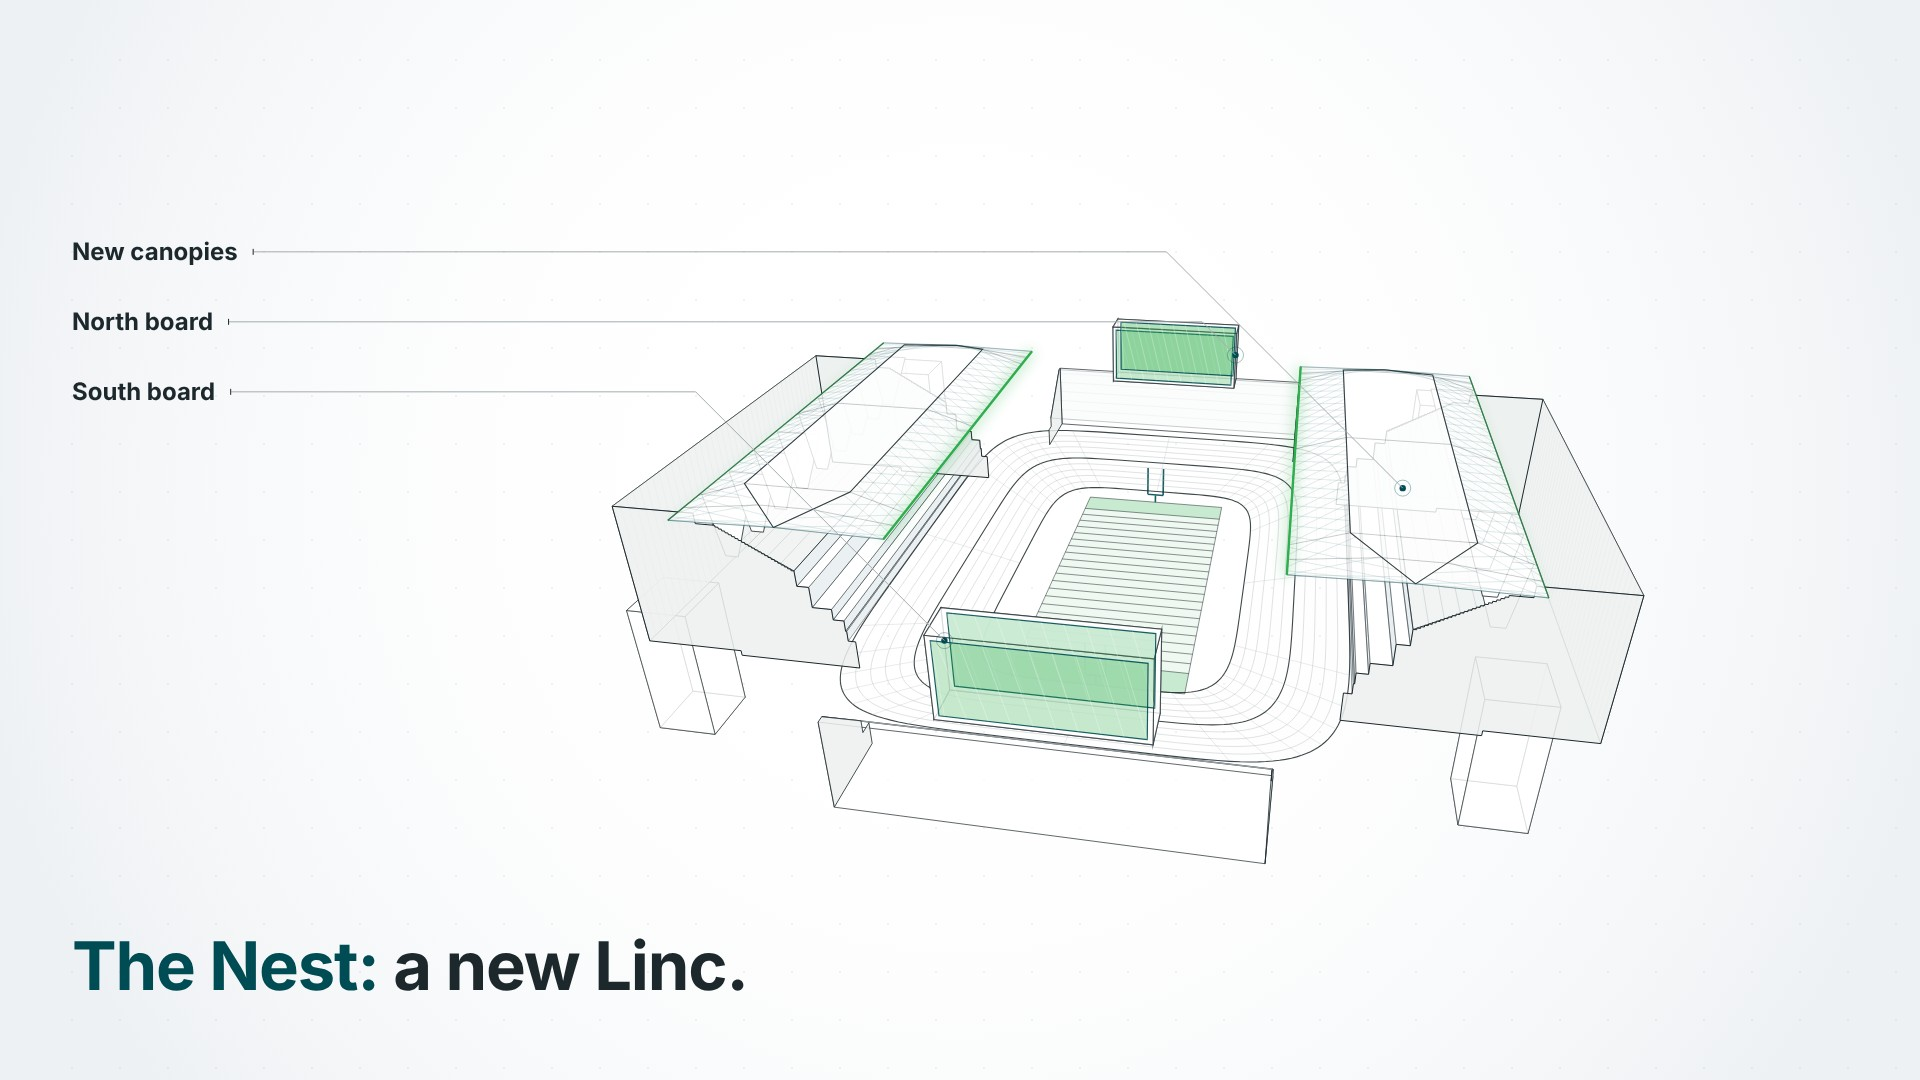
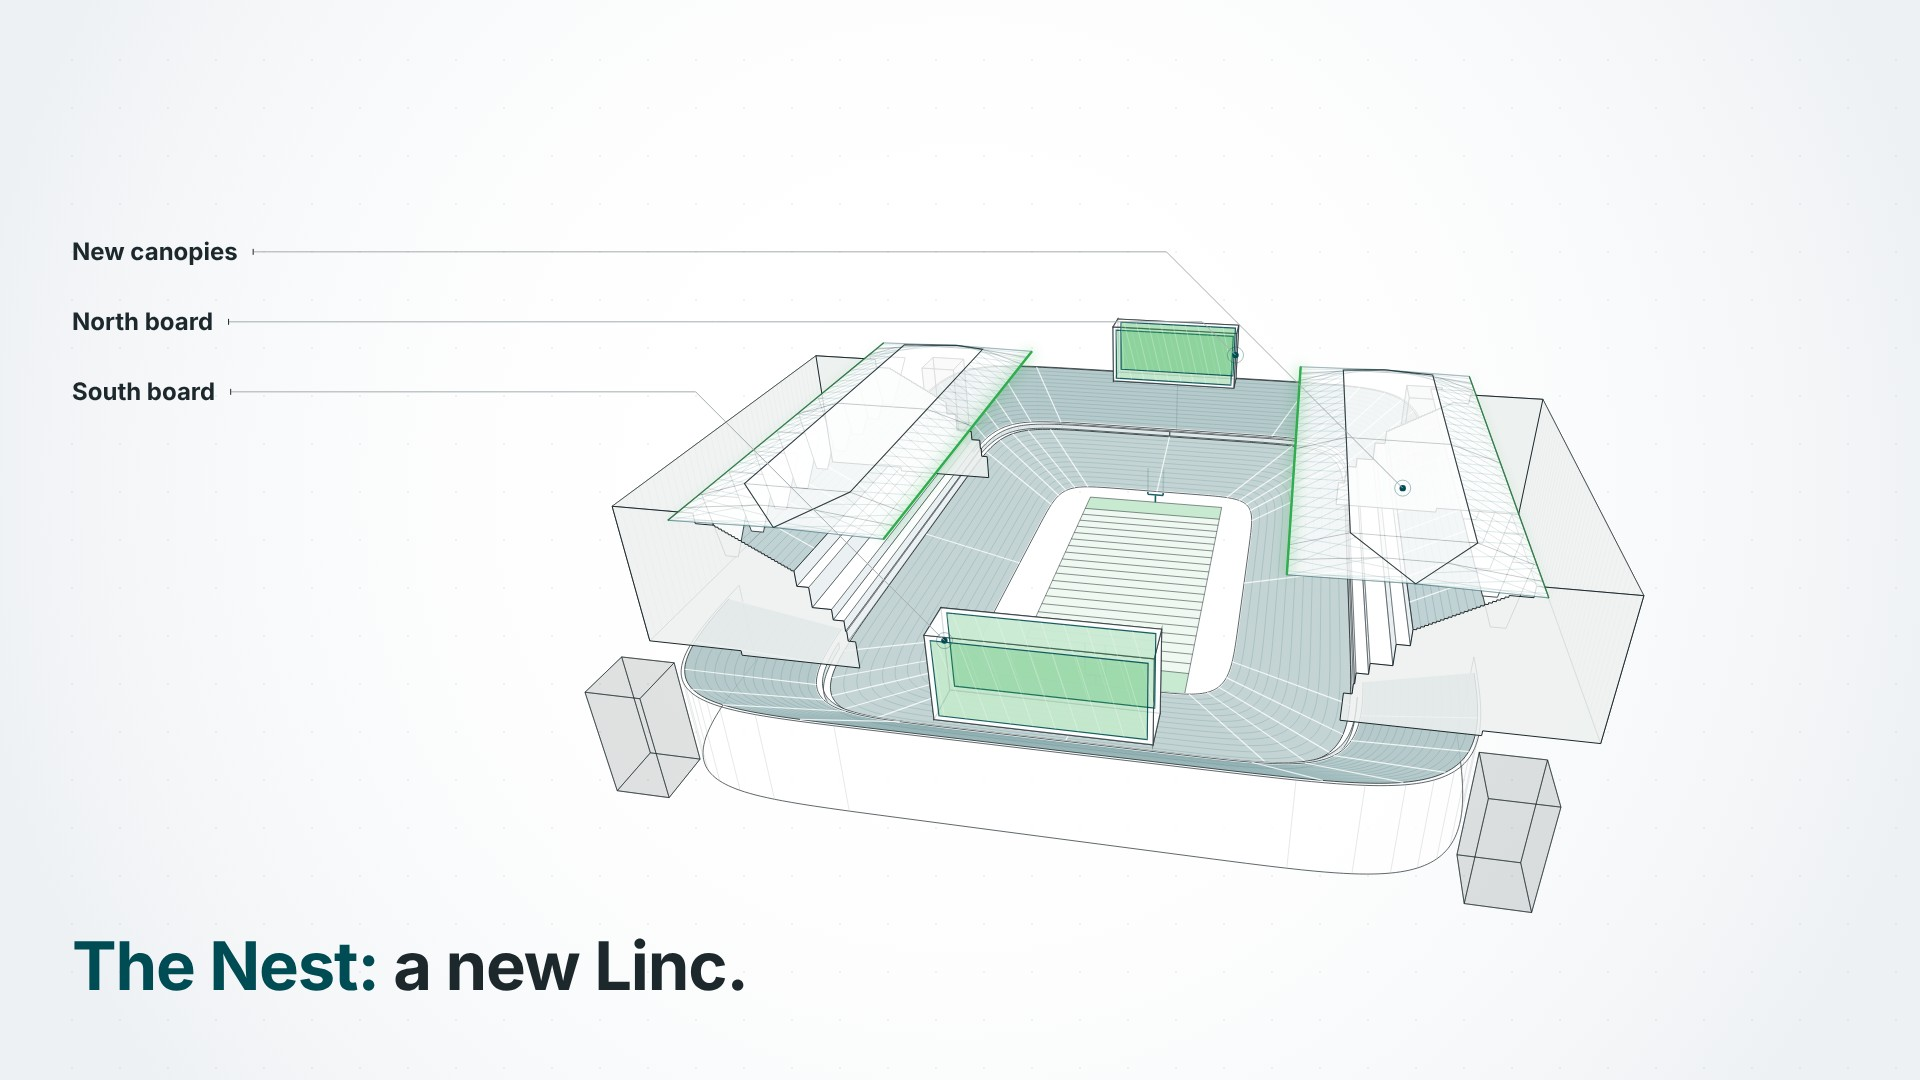
The Nest 16:9: bowl closer to the reference images
Existing Linc: rectangular lower bowl, suite band, end upper decks with
open corners, rim truss on the wing canopies, corner ramp towers.
The Nest: lowered lower bowl and a second tier wrapping the corners and
both ends. Seating drawn as tinted tiers with rows and aisles.
Applies to the 16:9 mode only; the 4:5 cut is unchanged.

Claude-Session: https://claude.ai/code/session_01XFWMdGfzEwnLKPwVW5U2PS

diff --git a/the-nest/index.html b/the-nest/index.html
@@ -593,7 +593,8 @@ function stand3(c, P, s, a, o) {
   poly3(c, P, [[x0, ROOF, Z(345)], [x1, ROOF, Z(345)], [x1, ROOF, Z(FACADE)], [x0, ROOF, Z(FACADE)]], 'light', .8 * a, 'graphite', .6 * a);
   // upper bowl rake
   poly3(c, P, [[x0, UBy(0), Z(UBr(0))], [x1, UBy(0), Z(UBr(0))], [x1, UB_TOP, Z(UB_END)], [x0, UB_TOP, Z(UB_END)]], 'light', .75 * a, 'graphite', .8 * a);
-  for (let j = 4; j < 25; j += 4) L(UBr(j), UBy(j), 'mid', .5, .7);
+  if (WIDE) { poly3(c, P, [[x0, UBy(0), Z(UBr(0))], [x1, UBy(0), Z(UBr(0))], [x1, UB_TOP, Z(UB_END)], [x0, UB_TOP, Z(UB_END)]], 'blue', .2 * a, 'blue', 0); for (let j = 2; j < 25; j += 2) L(UBr(j), UBy(j), 'blue', .25, .6); c.beginPath(); for (let x = Math.ceil(x0 / 40) * 40; x <= x1; x += 40) seg3(c, P, [x, UBy(0), Z(UBr(0))], [x, UB_TOP, Z(UB_END)]); c.strokeStyle = rgba('white', .8 * a); c.lineWidth = 1.2; c.stroke(); }
+  else for (let j = 4; j < 25; j += 4) L(UBr(j), UBy(j), 'mid', .5, .7);
   // stepped front: club and suite levels behind glass
   for (let i = 0; i < FRONT.length - 1; i++) { const [ra, ya] = FRONT[i], [rb, yb] = FRONT[i + 1]; poly3(c, P, [[x0, ya, Z(ra)], [x1, ya, Z(ra)], [x1, yb, Z(rb)], [x0, yb, Z(rb)]], ra === rb ? 'blue' : 'white', ra === rb ? .08 * a : .7 * a, 'graphite', .55 * a, .8); }
   // fins carrying the canopy
@@ -676,22 +677,103 @@ function newCanopy3(c, P, s, a, o) {
     c.fillStyle = rgba('graphite', on * a); c.fillRect(f[0] - 3, f[1] - 2, 6, 4);
   }
 }
+/* ---------------------------------------------------------------------
+   16:9 bowl — seating tiers drawn as tinted bands with rows, closer to
+   the reference images (existing: open corners, suite band, ramp towers;
+   The Nest: tiers wrapping the corners and both ends)
+   --------------------------------------------------------------------- */
+const N8 = 8, NB = 240, THB = [...Array(NB + 1)].map((_, i) => i / NB * TAU);
+const s8 = (A, B, th) => { const cc = Math.cos(th), s = Math.sin(th); return [A * Math.sign(cc) * Math.pow(Math.abs(cc), 2 / N8), B * Math.sign(s) * Math.pow(Math.abs(s), 2 / N8)]; };
+function tierBand(c, P, R0, R1, a, o = {}) {
+  const { xmin = -999, keep = () => true, rows = 10, tint = .16, aisles = 10 } = o;
+  const [A0, B0, y0] = R0, [A1, B1, y1] = R1, pt = (f, th) => { const q = s8(lerp(A0, A1, f), lerp(B0, B1, f), th); return [q[0], lerp(y0, y1, f), q[1]]; };
+  const ok = i => { const th = THB[i], m = pt(.5, th); return keep(m[0], m[2]) && pt(0, th)[0] >= xmin && pt(1, th)[0] >= xmin; };
+  const runs = []; let cur = null;
+  for (let i = 0; i <= NB; i++) { if (ok(i)) { if (!cur) { cur = [i, i]; runs.push(cur); } cur[1] = i; } else cur = null; }
+  if (runs.length > 1 && runs[0][0] === 0 && runs[runs.length - 1][1] === NB) { runs[0][0] = runs[runs.length - 1][0] - NB; runs.pop(); }
+  for (const [i0, i1] of runs) {
+    const idx = []; for (let i = i0; i <= i1; i++) idx.push(((i % NB) + NB) % NB);
+    const inner = idx.map(i => P(...pt(0, THB[i]))), outer = idx.map(i => P(...pt(1, THB[i])));
+    linePts(c, [...inner, ...outer.reverse()]); c.closePath(); c.fillStyle = rgba('light', .85 * a); c.fill(); c.fillStyle = rgba('blue', tint * a); c.fill();
+    for (let k = 1; k < rows; k++) { linePts(c, idx.map(i => P(...pt(k / rows, THB[i])))); c.strokeStyle = rgba('blue', .22 * a); c.lineWidth = .6; c.stroke(); }
+    linePts(c, inner); c.strokeStyle = rgba('white', a); c.lineWidth = 2; c.stroke(); c.strokeStyle = rgba('graphite', .8 * a); c.lineWidth = .9; c.stroke();
+    linePts(c, idx.map(i => P(...pt(1, THB[i])))); c.strokeStyle = rgba('graphite', .8 * a); c.lineWidth = 1; c.stroke();
+    c.beginPath(); idx.forEach((i, k) => { if (k % aisles) return; seg3(c, P, pt(0, THB[i]), pt(1, THB[i])); }); c.strokeStyle = rgba('white', .8 * a); c.lineWidth = 1.2; c.stroke();
+  }
+  return runs;
+}
+function ringWall(c, P, A, B, y0, y1, a, keep, xmin, fill = 'white', fa = .8, glass = 0) {
+  const idx = []; for (let i = 0; i <= NB; i++) { const q = s8(A, B, THB[i]); if (keep(q[0], q[1]) && q[0] >= xmin) idx.push(i); else if (idx.length && idx[idx.length - 1] !== null) idx.push(null); }
+  const runs = []; let cur = []; for (const i of idx) { if (i === null) { if (cur.length > 1) runs.push(cur); cur = []; } else cur.push(i); } if (cur.length > 1) runs.push(cur);
+  for (const run of runs) {
+    const bot = run.map(i => { const q = s8(A, B, THB[i]); return P(q[0], y0, q[1]); }), top = run.map(i => { const q = s8(A, B, THB[i]); return P(q[0], y1, q[1]); });
+    linePts(c, [...bot, ...top.slice().reverse()]); c.closePath(); c.fillStyle = rgba(fill, fa * a); c.fill(); if (glass) { c.fillStyle = rgba('blue', glass * a); c.fill(); }
+    c.strokeStyle = rgba('graphite', .7 * a); c.lineWidth = 1; c.stroke();
+    c.beginPath(); run.forEach((i, k) => { if (k % 6) return; const q = s8(A, B, THB[i]); seg3(c, P, [q[0], y0, q[1]], [q[0], y1, q[1]]); }); c.strokeStyle = rgba('mid', .4 * a); c.lineWidth = .7; c.stroke();
+  }
+}
+const isEnd = (x, z) => Math.abs(x) > 206;                     // ends + corners (outside the sideline stands)
+const isEndOnly = (x, z) => Math.abs(x) > 206 && Math.abs(z) < 150; // existing: the corners stay open
+function bowlWide(c, P, a, o) {
+  const { lower = 1, old = 0, xmin = -999, build = 1 } = o, B = k => clamp(build * 6 - k) * a;
+  const nwA = 1 - old;
+  // lower bowl, all the way round
+  const lb = B(.5);
+  if (lb > 0) tierBand(c, P, [lerp(203, 192, lower), lerp(130, 119, lower), lerp(LBy(4), LBy(0), lower)], [300, LB_END, LB_TOP], lb, { xmin, rows: 12, tint: .18 });
+  // existing: suite band around the bowl + end upper decks with open corners
+  if (old > 0 && B(1.5) > 0) {
+    const ea = B(1.5) * old;
+    ringWall(c, P, 370, 304, PLAZA, 98, ea, isEndOnly, xmin, 'white', .7);
+    ringWall(c, P, 303, 226, LB_TOP, 46, ea, isEnd, xmin, 'graphite', .12, .1);
+    tierBand(c, P, [306, 230, 48], [368, 302, 98], ea, { xmin, keep: isEndOnly, rows: 14, tint: .2 });
+  }
+  // The Nest: a second tier sweeping round the corners and across both ends
+  if (nwA > 0 && B(1.5) > 0) {
+    const ea = B(1.5) * nwA;
+    ringWall(c, P, 374, 308, PLAZA, 92, ea, isEnd, xmin, 'white', .75);
+    ringWall(c, P, 303, 226, LB_TOP, 40, ea, isEnd, xmin, 'white', .7, .12);
+    tierBand(c, P, [306, 230, 42], [372, 306, 92], ea, { xmin, keep: isEnd, rows: 14, tint: .24 });
+  }
+}
+// existing ramp towers in the corners (cylinders), new dark corner blocks
+function cornersWide(c, P, a, old, xmin) {
+  for (const e of [-1, 1]) for (const s of [-1, 1]) {
+    const cx = e * 352, cz = s * 318; if (cx + 40 < xmin) continue;
+    if (old > 0) {
+      const al = a * old, R = 34, H = 84, ring_ = y => [...Array(33)].map((_, i) => { const an = i / 32 * TAU; return P(cx + R * Math.cos(an), y, cz + R * Math.sin(an)); });
+      linePts(c, ring_(0)); c.closePath(); c.fillStyle = rgba('white', .7 * al); c.fill();
+      for (let y = 0; y <= H; y += 12) { linePts(c, ring_(y)); c.strokeStyle = rgba(y % 24 ? 'mid' : 'graphite', (y % 24 ? .45 : .7) * al); c.lineWidth = .9; c.stroke(); }
+      const sil = ring_(H); linePts(c, sil); c.closePath(); c.fillStyle = rgba('light', .9 * al); c.fill(); c.strokeStyle = rgba('graphite', .8 * al); c.stroke();
+      c.beginPath(); for (const an of [0, Math.PI]) { const p = P(cx + R * Math.cos(an + 1.57), 0, cz + R * Math.sin(an + 1.57)), q = P(cx + R * Math.cos(an + 1.57), H, cz + R * Math.sin(an + 1.57)); c.moveTo(p[0], p[1]); c.lineTo(q[0], q[1]); } c.strokeStyle = rgba('graphite', .5 * al); c.stroke();
+    }
+    if (old < 1) boxF(c, P, cx - 22, cx + 22, 0, 96, cz - 22, cz + 22, 'graphite', .07 * a * (1 - old), 'graphite', .55 * a * (1 - old));
+  }
+}
+// rim truss on the existing wing canopies
+function oldRim(c, P, s, a, lift, xmin) {
+  if (a <= 0) return;
+  const F = (x, dy) => [x, 150 + 30 * (x / LS) ** 2 + lift + dy, s * 252], x0 = Math.max(-LS, xmin);
+  c.beginPath(); for (let i = 0; i <= 40; i++) { const x = lerp(x0, LS, i / 40), p = P(...F(x, 0)), q = P(...F(x, -7)); if (i) { const pp = P(...F(lerp(x0, LS, (i - 1) / 40), i % 2 ? -7 : 0)); c.moveTo(pp[0], pp[1]); c.lineTo(i % 2 ? p[0] : q[0], i % 2 ? p[1] : q[1]); } }
+  c.strokeStyle = rgba('graphite', .6 * a); c.lineWidth = .8; c.stroke();
+  linePts(c, [...Array(41)].map((_, i) => P(...F(lerp(x0, LS, i / 40), -7)))); c.strokeStyle = rgba('white', a); c.lineWidth = 2.4; c.stroke(); c.strokeStyle = rgba('graphite', .8 * a); c.lineWidth = 1; c.stroke();
+}
 function drawNest(c, cm, t, o = {}) {
   const { a = 1, build = 1, old = 0, nw = 0, drop = 0, oldBd = 0, newBd = 0, rise = 1, glow = 0, solar = 0, lights = 0, show = 0, lower = 1, xmin = -999, beat = 0, fins = 0 } = o;
   const P = Qp(cm), B = k => clamp(build * 6 - k) * a, cut = xmin > -LS ? 1 : 0;
   field3(c, P, clamp(build * 4) * a, xmin, 4 * (1 - lower));
-  if (B(.5) > 0) lowerBowl(c, P, B(.5), lower, xmin);
+  if (WIDE) bowlWide(c, P, a, { lower, old, xmin, build });
+  else if (B(.5) > 0) lowerBowl(c, P, B(.5), lower, xmin);
   if (cut) for (const s of [-1, 1]) lbCut(c, P, s, a, xmin);
   const ends = [-1, 1].sort((p, q) => P(q * 340, 60, 0)[2] - P(p * 340, 60, 0)[2]);
-  for (const e of ends) end3(c, P, e, B(1.5), xmin);
-  if (B(2) > 0) towers3(c, P, B(2), xmin);
+  if (WIDE) { if (B(2) > 0) cornersWide(c, P, B(2), old, xmin); }
+  else { for (const e of ends) end3(c, P, e, B(1.5), xmin); if (B(2) > 0) towers3(c, P, B(2), xmin); }
   const sides = [-1, 1].sort((p, q) => P(0, 80, q * 300)[2] - P(0, 80, p * 300)[2]);
   for (const s of sides) if (B(2.6) > 0) stand3(c, P, s, B(2.6), { xmin, fins, cut });
   if (beat > 0) for (const s of [-1, 1]) { c.beginPath(); seg3(c, P, [-LC, CAN.yb, s * CAN.r0], [LC, CAN.yb, s * CAN.r0]); glowStroke(c, 'cyan', beat * a, 3, 22); }
   if (oldBd > 0) boardsOld(c, P, oldBd * B(4), xmin);
   if (old > 0 && xmin < 372) turbines(c, P, old * B(4.2), t);
   if (newBd > 0) boardsNew(c, P, newBd * a, rise, t, show, xmin);
-  for (const s of sides) { oldCanopy3(c, P, s, old * B(4.5), (1 - old) * 90, xmin); newCanopy3(c, P, s, nw * a, { drop, glow, solar, lights, xmin, cut }); }
+  for (const s of sides) { oldCanopy3(c, P, s, old * B(4.5), (1 - old) * 90, xmin); if (WIDE) oldRim(c, P, s, old * B(4.5), (1 - old) * 90, xmin); newCanopy3(c, P, s, nw * a, { drop, glow, solar, lights, xmin, cut }); }
 }
 
 /* =====================================================================
@@ -943,7 +1025,7 @@ function sExperience(c, t) {
    08 — LIGHTING + TECHNOLOGY  (76 – 84.6)
    ===================================================================== */
 function sTech(c, t) {
-  const cm = vcam({ yaw: .3 + .025 * (t - 76), pitch: .5, dist: 330, f: 1000, tx: 0, ty: 20, tz: 8, cx: 540, cy: 700 }), P = Qp(cm), ia = smooth(seg(t, 76.0, 76.7));
+  const cm = vcam({ yaw: .3 + .025 * (t - 76), pitch: .5, dist: WIDE ? 410 : 330, f: 1000, tx: 0, ty: 20, tz: 8, cx: 540, cy: 700 }), P = Qp(cm), ia = smooth(seg(t, 76.0, 76.7));
   const lights = seg(t, 77.0, 78.6), show = smooth(seg(t, 79.4, 80.4)), solar = seg(t, 81.0, 82.6);
   drawNest(c, cm, t, { a: ia, nw: 1, newBd: 1, fins: 1, glow: .5 + .5 * show * (.5 + .5 * Math.sin(t * 5)), lights, show, solar });
   const na = smooth(seg(t, 80.2, 81.0)) * ia, node = i => { const q = se(lerp(192, 300, .6), lerp(119, LB_END, .6), THS[i]); return P(q[0], 30, q[1]); };
